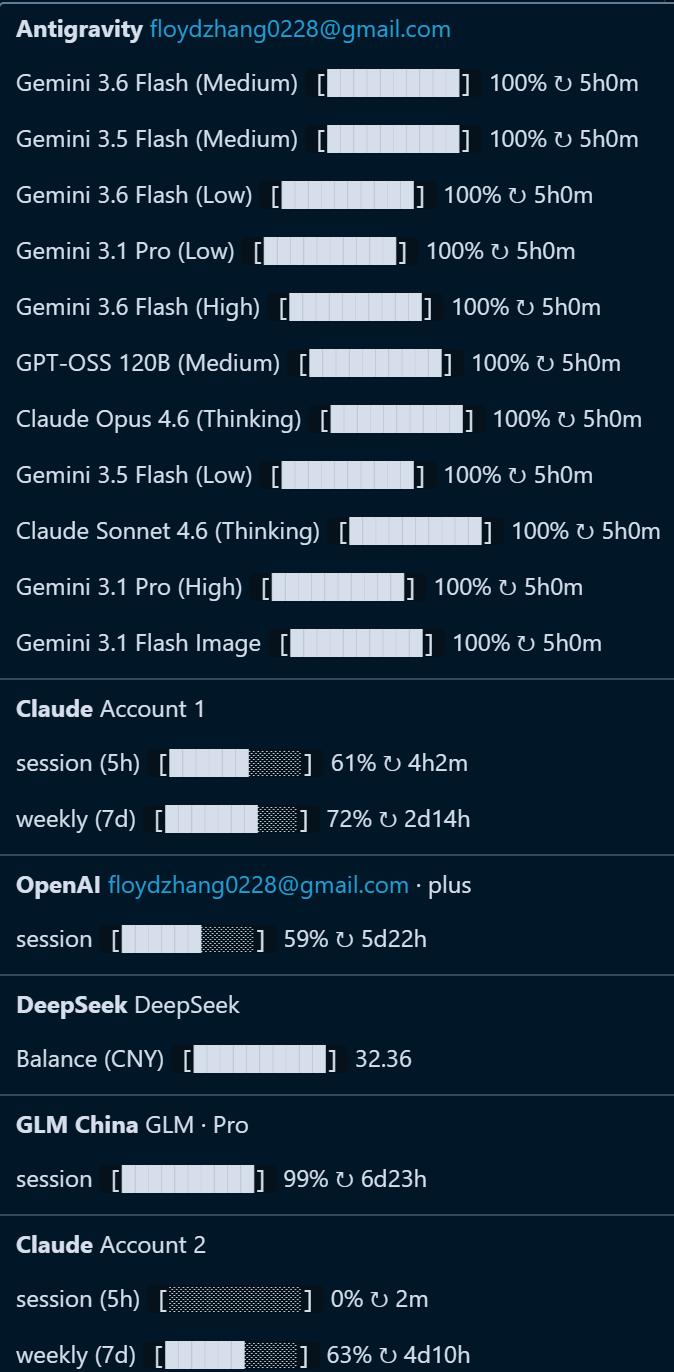
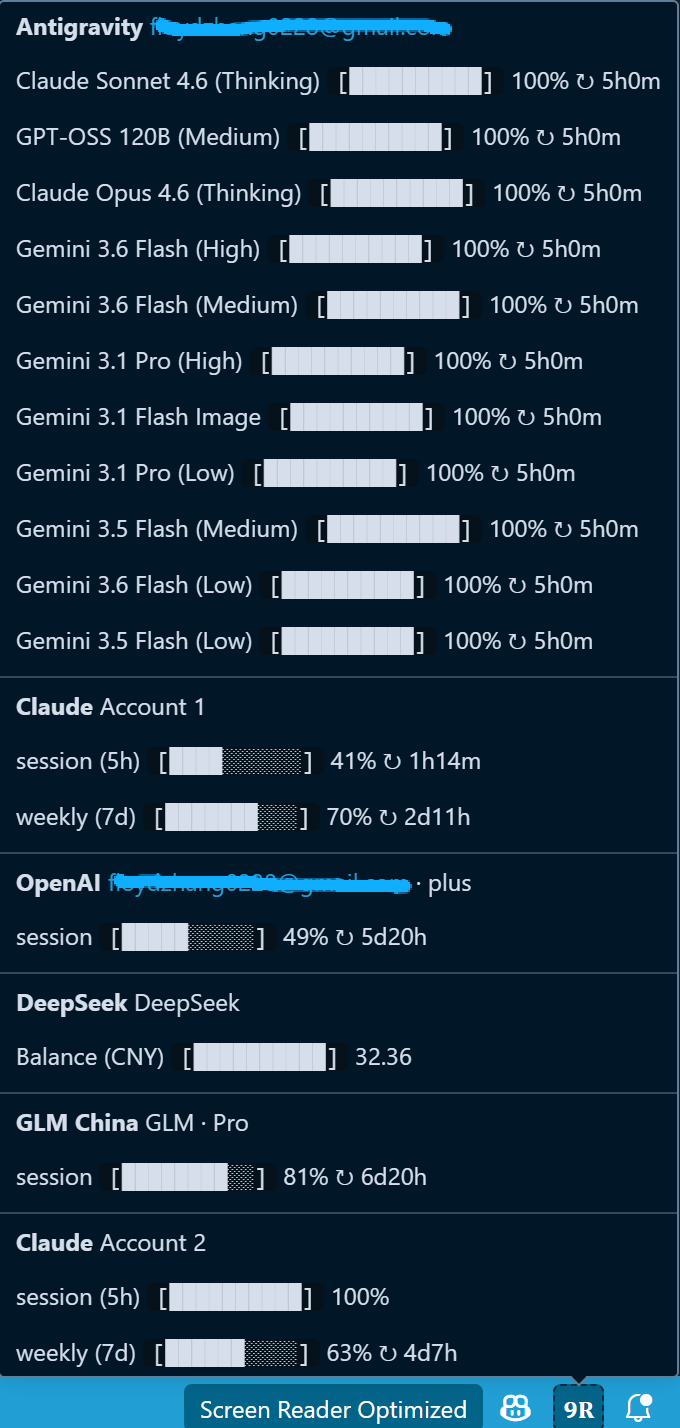
README 换用最新界面截图，拆成列表/圆环/状态栏三张

Changed region(s): [[0.0, 0.0, 1.0, 1.0]]

diff --git a/README.md b/README.md
@@ -10,13 +10,17 @@
 
 ### 2. 运行截图
 
-<1> 侧边栏面板（列表 / 圆环双视图 + 实时最近请求）：
+<1> 侧边栏面板 · 列表视图（进度条 + 剩余百分比 + 重置倒计时，底部为实时最近请求）：
 
-![侧边栏面板](docs/screenshot-sidebar.png)
+<img src="docs/screenshot-list.png" alt="列表视图" width="340" />
 
-<2> 状态栏悬浮配额卡片（悬停右下角 `9R` 图标）：
+<2> 侧边栏面板 · 圆环视图（同一份数据的紧凑排布，适合账号配额条目较多时速览）：
 
-![状态栏悬浮卡片](docs/screenshot-tooltip.png)
+<img src="docs/screenshot-ring.png" alt="圆环视图" width="340" />
+
+<3> 状态栏悬浮配额卡片（悬停右下角 `9R` 图标）：
+
+<img src="docs/screenshot-tooltip.png" alt="状态栏悬浮卡片" width="360" />
 
 ### 3. 功能特性
 
